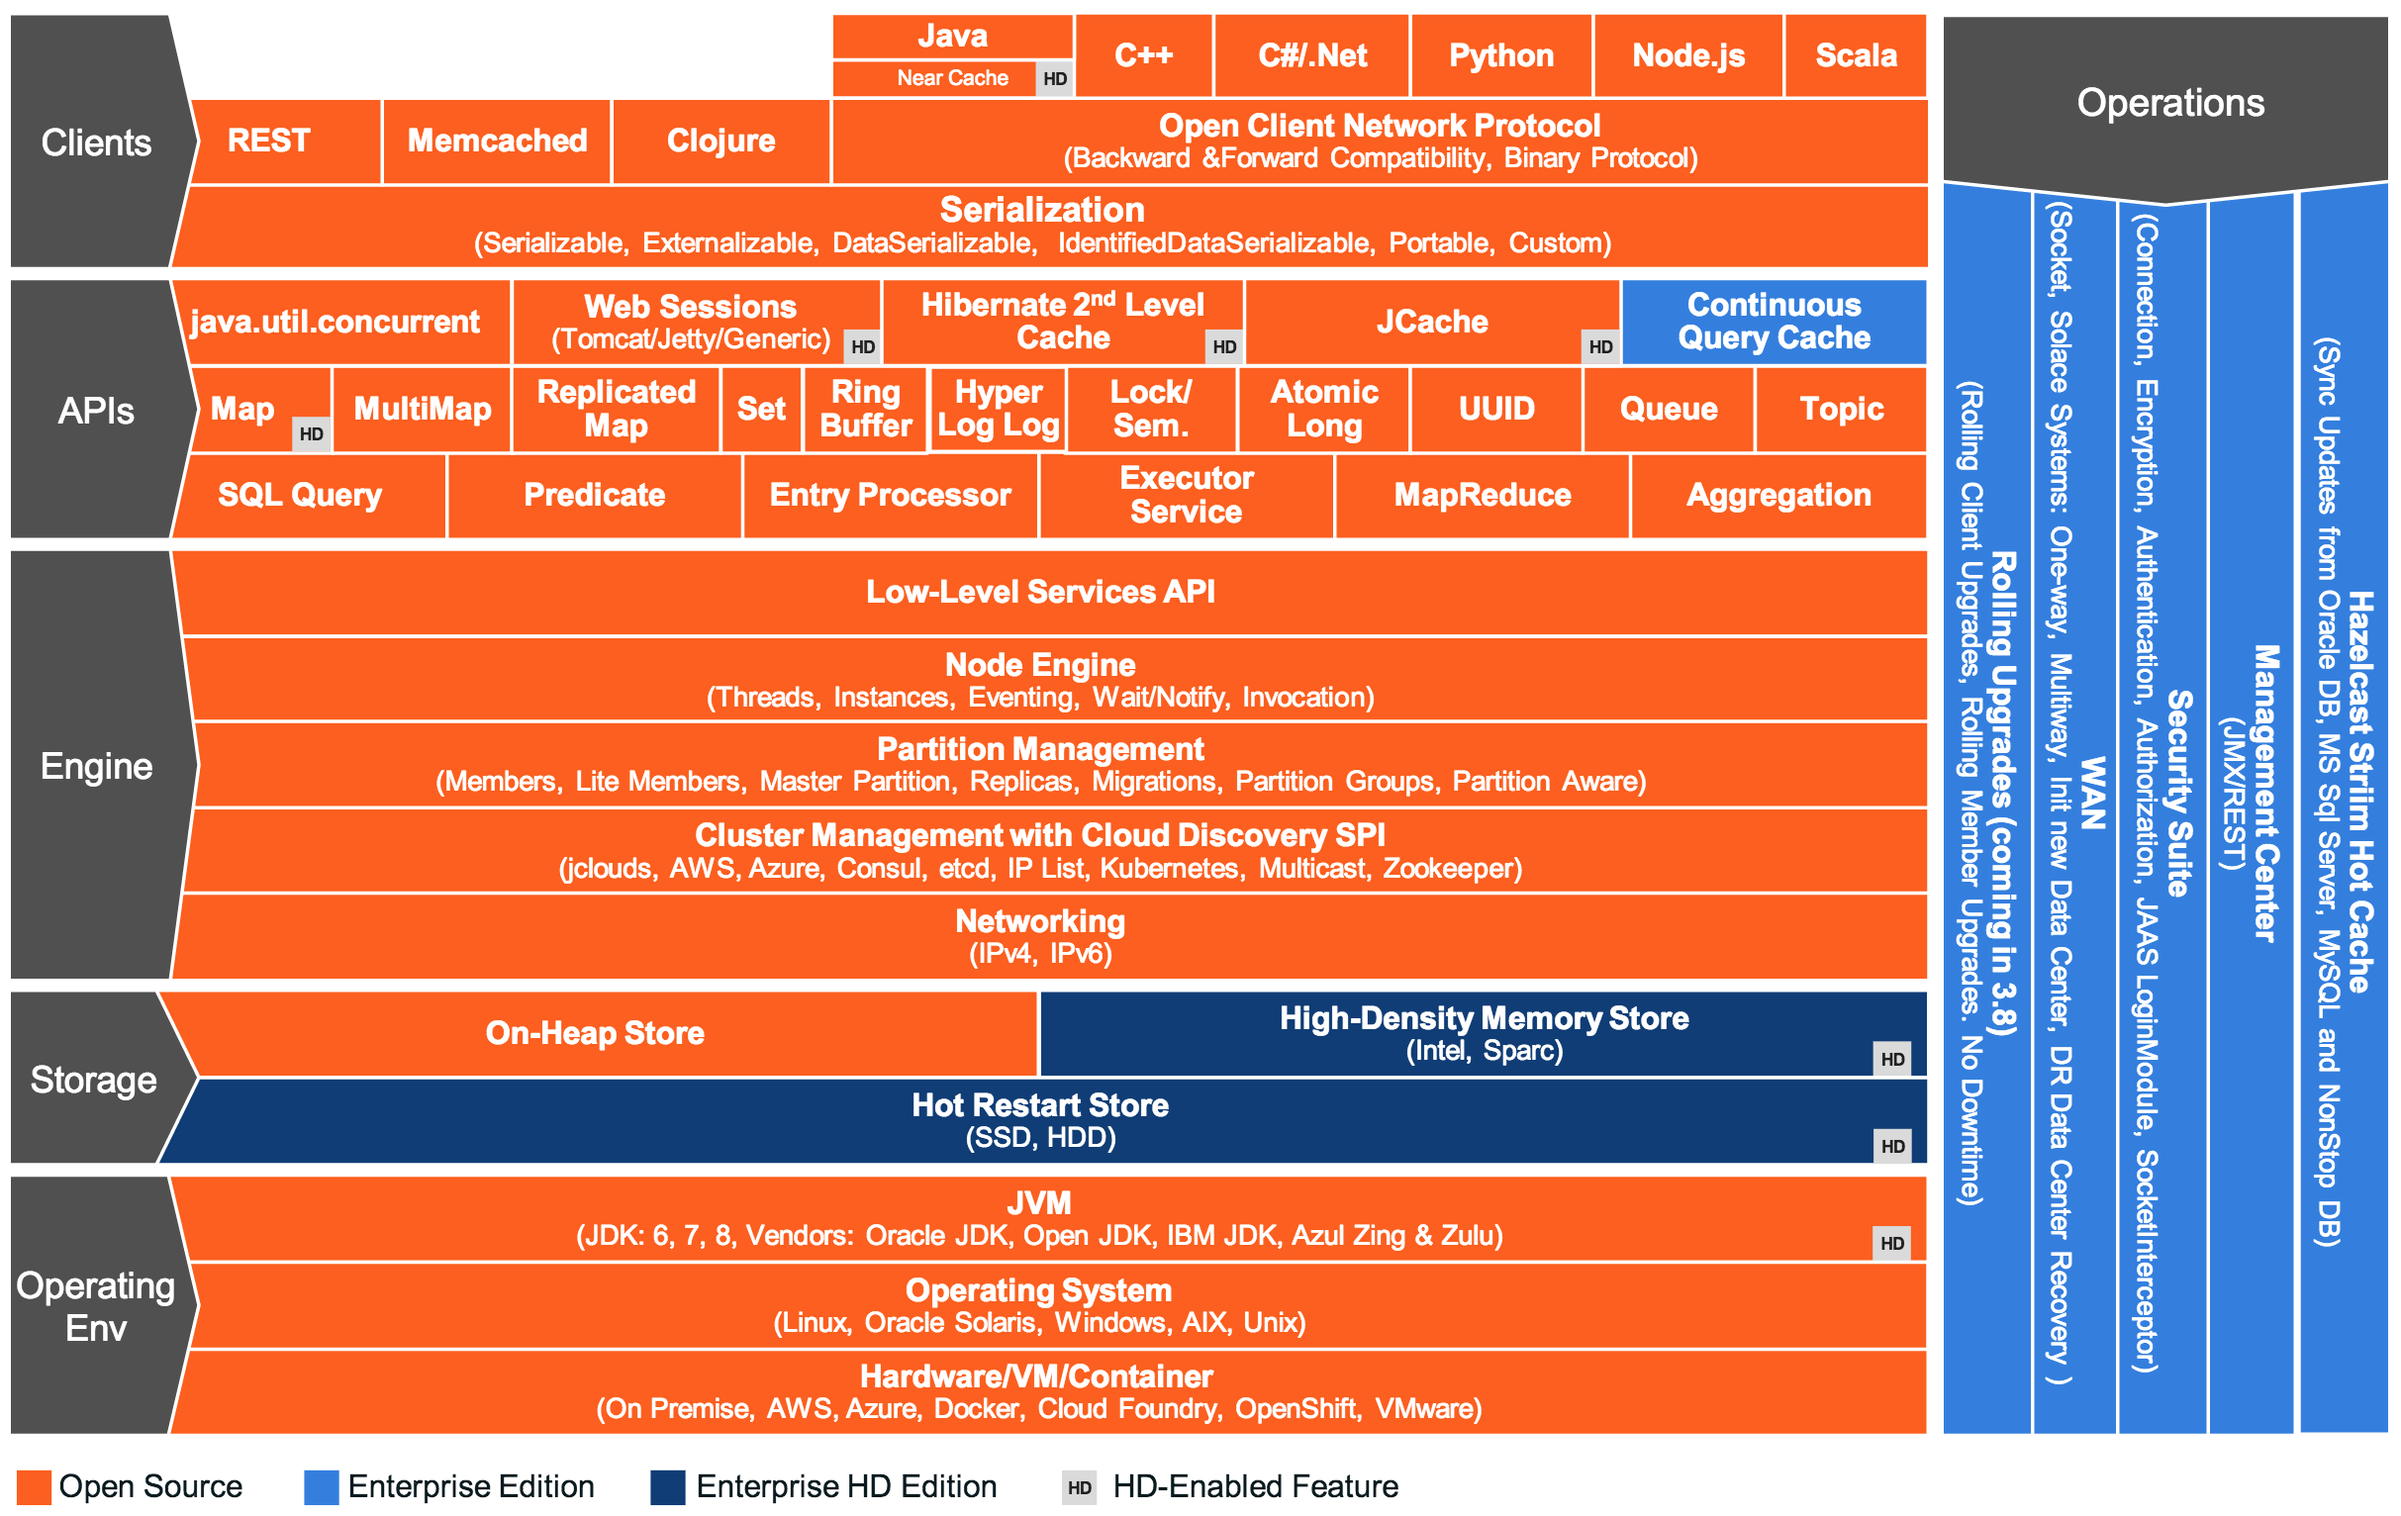
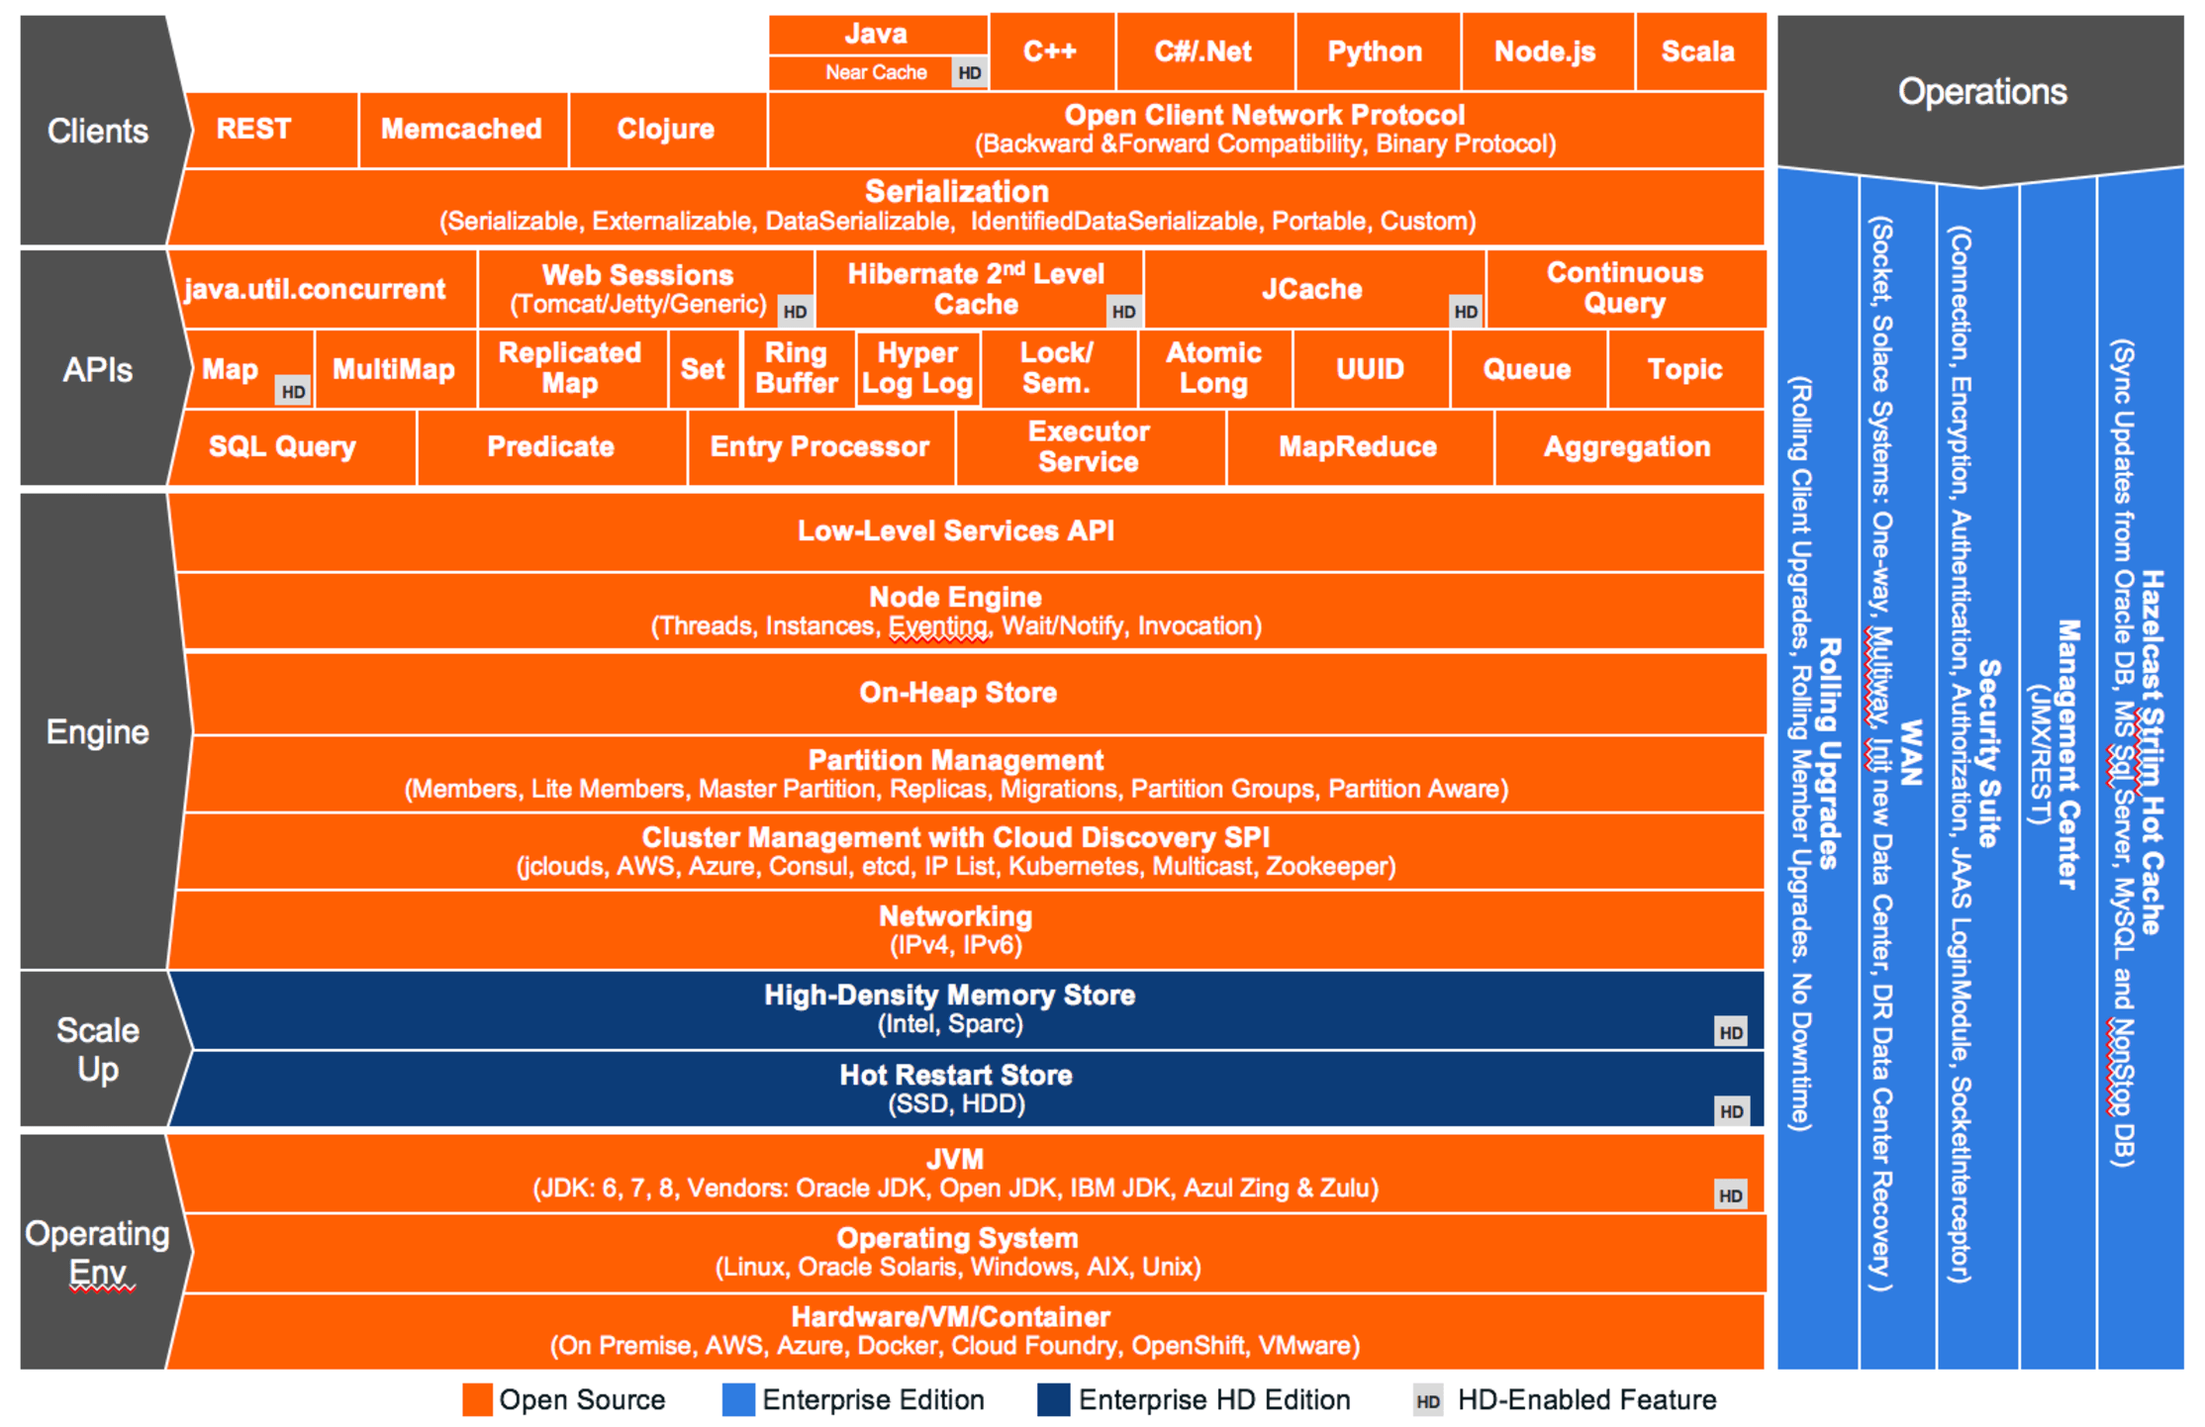
Updated the Architecture diagram and enterprise license feature list.

diff --git a/src/LicenseKeys.md b/src/LicenseKeys.md
@@ -8,10 +8,10 @@ Hazelcast Enterprise offers you two types of licenses: **Enterprise** and **Ente
 * **Enterprise license**: In addition to the open source edition of Hazelcast, Enterprise features are the following:
 	* Security
 	* WAN Replication
-	* Continuous Query Cache
 	* Clustered REST
 	* Clustered JMX 
-	* Web Sessions
+	* Striim Hot Cache
+	* Rolling Upgrades
 <br></br>
 * **Enterprise HD license**: In addition to the Enterprise features, Enterprise HD features are the following:
 	* High-Density Memory Store
